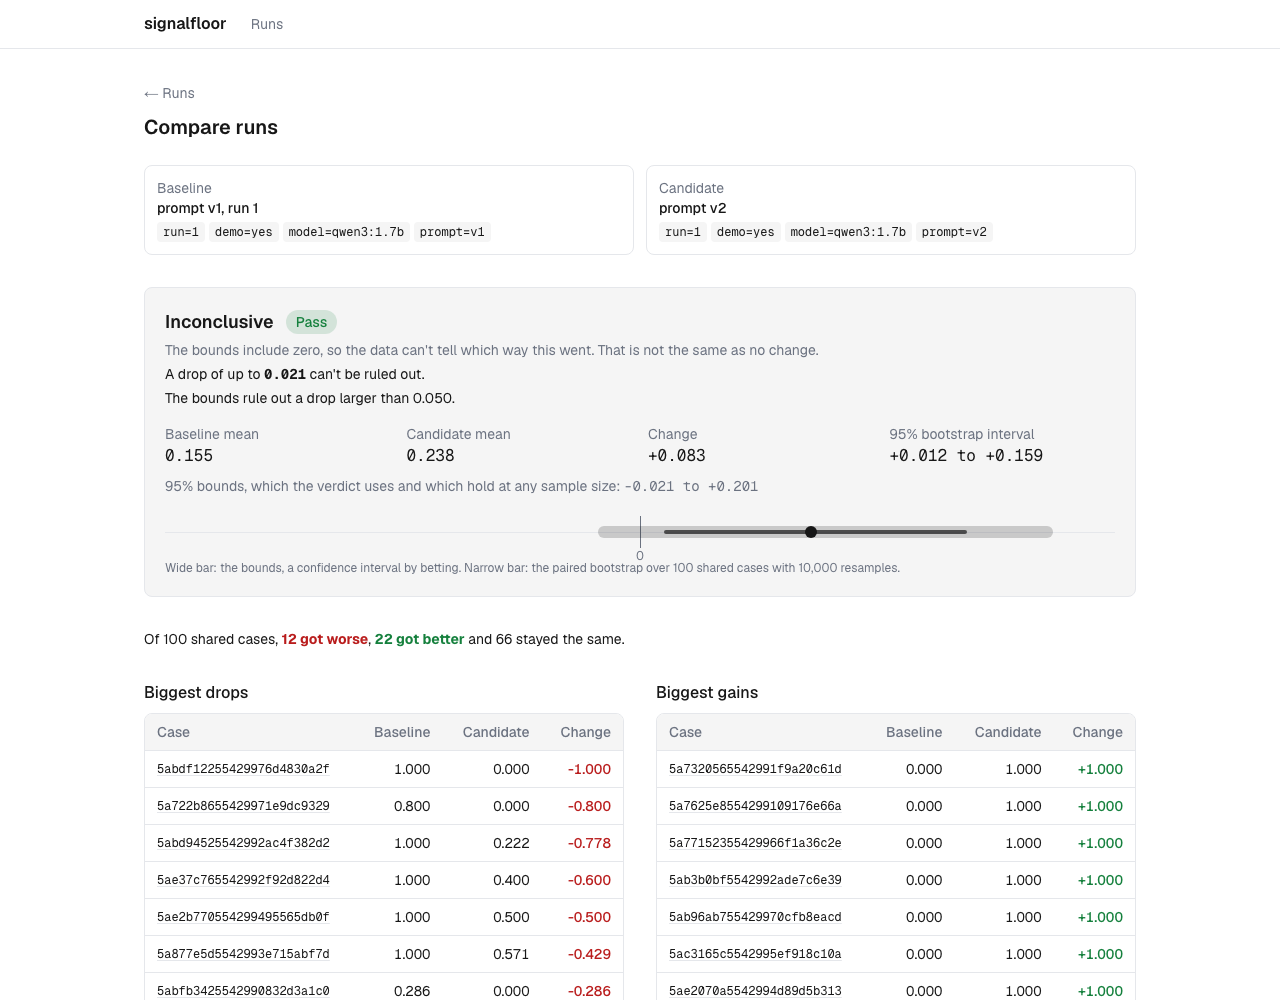
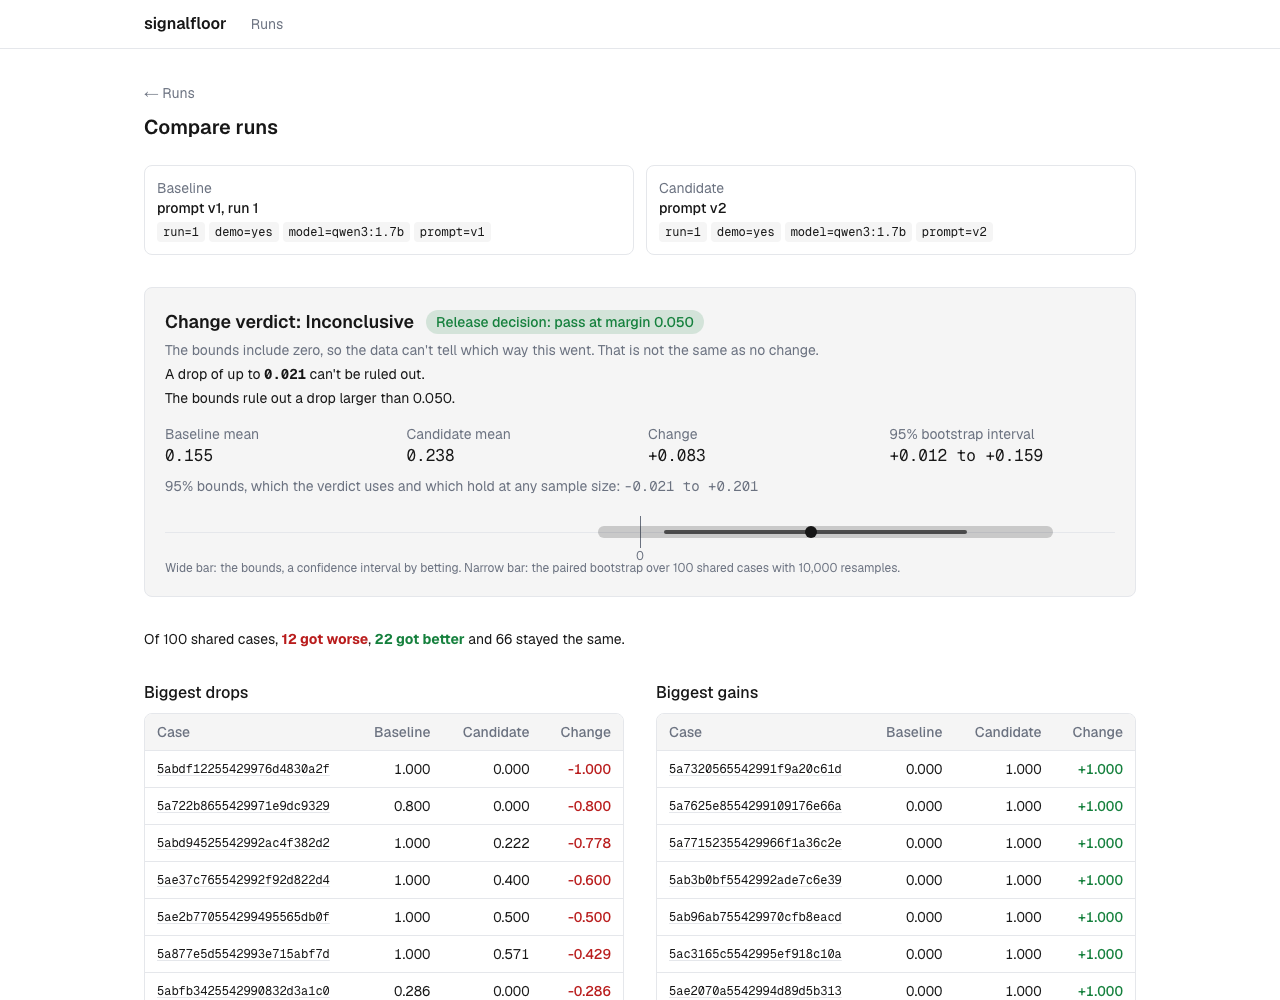
docs: fix the label example, the stack steps and margin advice, and label the dashboard's two answers

Changed region(s): [[0.125, 0.31, 0.5625, 0.341]]

diff --git a/dashboard/src/components/VerdictBanner.test.tsx b/dashboard/src/components/VerdictBanner.test.tsx
@@ -39,7 +39,7 @@ describe("VerdictBanner", () => {
   ])("shows %s as %s", (verdict, title) => {
     render(<VerdictBanner comparison={comparison({ verdict })} />);
 
-    expect(screen.getByText(title)).toBeTruthy();
+    expect(screen.getByText(`Change verdict: ${title}`)).toBeTruthy();
   });
 
   it("shows the numbers", () => {
@@ -153,9 +153,13 @@ describe("VerdictBanner wording", () => {
   });
 
   it.each([
-    ["pass", "Pass", "The bounds rule out a drop larger than 0.020."],
-    ["fail", "Fail", "The bounds put the drop above 0.020."],
-    ["needs_more_evidence", "Needs more evidence", "The data can't tell if the drop is within 0.020."],
+    ["pass", "Release decision: pass at margin 0.020", "The bounds rule out a drop larger than 0.020."],
+    ["fail", "Release decision: fail at margin 0.020", "The bounds put the drop above 0.020."],
+    [
+      "needs_more_evidence",
+      "Release decision: needs more evidence at margin 0.020",
+      "The data can't tell if the drop is within 0.020.",
+    ],
   ])("shows the %s decision", (decision, label, text) => {
     render(<VerdictBanner comparison={comparison({ margin: 0.02, decision })} />);
 

diff --git a/dashboard/src/components/VerdictBanner.tsx b/dashboard/src/components/VerdictBanner.tsx
@@ -52,13 +52,14 @@ export function VerdictBanner({ comparison }: { comparison: Comparison }) {
   return (
     <section className={`rounded-lg border p-5 ${verdict.tone}`}>
       <div className="flex flex-wrap items-center gap-3">
-        <p className="text-lg font-semibold">{verdict.title}</p>
+        {/* One string each, so the server rendered HTML keeps the words together. */}
+        <p className="text-lg font-semibold">{`Change verdict: ${verdict.title}`}</p>
         {decision && (
           <span
             data-testid="decision"
             className={`rounded-full px-2.5 py-0.5 text-sm font-medium ${decision.tone}`}
           >
-            {decision.label}
+            {`Release decision: ${decision.label.toLowerCase()} at margin ${margin}`}
           </span>
         )}
       </div>

diff --git a/README.md b/README.md
@@ -67,8 +67,9 @@ decision    needs more evidence (margin 0.1)
 | fail | the upper bound is below `-margin` | 1 |
 | needs more evidence | anything else: 120 cases can't tell | 3 |
 
-Here 120 cases can't rule out a drop of 0.125, so a margin of 0.1 gets needs more evidence, and
-a margin of 0.2 would pass. [Using signalfloor on your own evals](docs/your-own-evals.md) covers
+Here 120 cases can't rule out a drop of 0.125, so a margin of 0.1 gets needs more evidence. The
+margin should come from what a drop would cost your users, chosen before you look at the
+result. When the eval can't decide, collect more cases rather than widen the margin. [Using signalfloor on your own evals](docs/your-own-evals.md) covers
 exporting your results, choosing a margin and what to do with each answer.
 
 ## What signalfloor does
@@ -132,11 +133,12 @@ often the judge agrees with you. Put the judge labels and the human labels in tw
 
 ```json
 {"id": "a-001", "label": 4}
-{"id": "a-002", "label": "good"}
+{"id": "a-002", "label": 2}
 ```
 
-Labels can be numbers, true/false or text. The example files are in the repository's
-[examples](examples) folder. Then run:
+Labels can be numbers, true/false or text, but one type throughout both files: a mix of
+numbers and text is refused. Weighted agreement, below, needs numbers. The example files are in
+the repository's [examples](examples) folder. Then run:
 
 ```console
 $ signalfloor calibrate examples/judge.jsonl examples/human.jsonl --weights quadratic
@@ -217,21 +219,27 @@ output.
 
 ## Run the whole stack
 
-With Docker installed, one command starts Postgres, the API, the background worker and the
-dashboard:
+The stack runs from a clone of the repository, not from the pip package. With Docker and git
+installed:
 
 ```bash
-docker compose up --build
+git clone https://github.com/dch2r/signalfloor.git
+cd signalfloor
+docker compose up --build -d
 ```
 
-Then load the reference agent's real runs, with Python 3 from the repository root:
+That starts Postgres, the API, the background worker and the dashboard in the background. The
+first build takes a few minutes. Wait until the API reports ready, then load the reference
+agent's real runs:
 
 ```bash
+until curl -fs localhost:8000/health/ready; do sleep 2; done
 python3 scripts/load-demo-data.py
 ```
 
-It prints a link to a comparison of the two prompt versions. Open http://localhost:3000 for the
-dashboard and http://localhost:8000/docs for the API.
+The loader prints a link to a comparison of the two prompt versions. Open
+http://localhost:3000 for the dashboard and http://localhost:8000/docs for the API.
+`docker compose down` stops everything, and adding `-v` also deletes the data.
 
 ![The compare page for the two prompt versions: inconclusive, with the bounds crossing zero while the bootstrap interval does not](docs/images/compare.png)
 

diff --git a/docs/your-own-evals.md b/docs/your-own-evals.md
@@ -53,18 +53,22 @@ The margin is the largest drop in the mean score you would still ship. It is a p
 decision, so start from what a drop means to your users. A margin of 0.02 on accuracy means
 you accept losing 2 of every 100 answers.
 
-The margin and the eval size go together. A small margin needs many cases. When nothing
-changed, an eval needs about 98 cases to pass a margin of 0.05 and 249 to pass 0.02. The
-command prints the count for your margin when it can't decide. If your suite is smaller,
-either add cases or accept a wider margin.
+Choose it before you look at a result, and keep it fixed. Widening the margin after an eval
+comes back undecided only makes the check easier to pass, and says nothing new about the
+change.
+
+A small margin needs many cases. When nothing changed, an eval needs about 98 cases to pass a
+margin of 0.05 and 249 to pass 0.02. The command prints the count for your margin when it
+can't decide. If your suite is smaller, plan to grow it. Change the margin only if your
+product requirements change on their own.
 
 ## 5. Read the result
 
 | Result | What it means | What to do |
 |---|---|---|
-| pass (exit 0) | The data rules out a drop larger than the margin. | Ship. |
+| pass (exit 0) | The data rules out a drop larger than the margin. | This metric's release check passes. Other checks may still apply. |
 | fail (exit 1) | The data shows a drop larger than the margin. | Find what broke. The dashboard lists the cases that dropped most, or diff the two files by id. |
-| needs more evidence (exit 3) | The eval is too small to tell. | Add cases, accept a wider margin, or treat it as a fail. Don't rerun until it passes: that is choosing the answer. |
+| needs more evidence (exit 3) | The eval is too small to tell. | Collect more cases, or treat it as a fail. Don't rerun until it passes, and don't widen the margin to get a pass: both choose the answer. |
 
 Without `--margin` the command gives a verdict instead, regression, improvement or
 inconclusive, and exits 1 only for a regression.
@@ -81,7 +85,8 @@ cases you care about. Real suites bend this in two common ways:
   your traffic. The result is still correct for the suite.
 
 Rerunning the same setup also moves scores. Use `signalfloor flaky` on a few reruns to see how
-much, and set a margin above that noise band.
+much. The noise band tells you how much evidence you need, not where to set the margin: if
+reruns move more than your margin, average over several reruns or add cases.
 
 ## 7. Run it in CI
 

diff --git a/studies/validation/README.md b/studies/validation/README.md
@@ -102,9 +102,9 @@ Full tables, with every rule, pattern and size: [dev](summary-dev.md), [fresh](s
    interval, so they approve less. At margin 0.05 they approved 24% of acceptable changes at
    100 cases and 47% at 200. 0.4.0's heuristic approved 53% and 70%, but it also failed an
    unchanged 7 case eval 6.25% of the time. At 50 cases or fewer it approved at most 0.6% at
-   either margin, because an eval that small can't show a change is safe. Pick
-   the margin and eval size together. `signalfloor compare` prints the cases an unchanged
-   eval needs for your margin.
+   either margin, because an eval that small can't show a change is safe. The margin should
+   come from what a drop costs, so the fix is a larger eval, not a wider margin.
+   `signalfloor compare` prints the cases an unchanged eval needs for your margin.
 
 4. **Bad changes mostly get "needs more evidence", not "fail".** At 100 cases and margin
    0.05 the bounds failed 4% of bad changes and blocked the rest as needs more evidence.

diff --git a/CHANGELOG.md b/CHANGELOG.md
@@ -10,6 +10,8 @@ All notable changes to this project are listed here. The format follows
 
 - The package description shows the margin workflow and every exit code, including 3 for
   needs more evidence.
+- The dashboard labels its two answers "Change verdict" and "Release decision", with the
+  margin, so an inconclusive verdict next to a pass reads as two separate questions.
 
 ### Fixed
 
